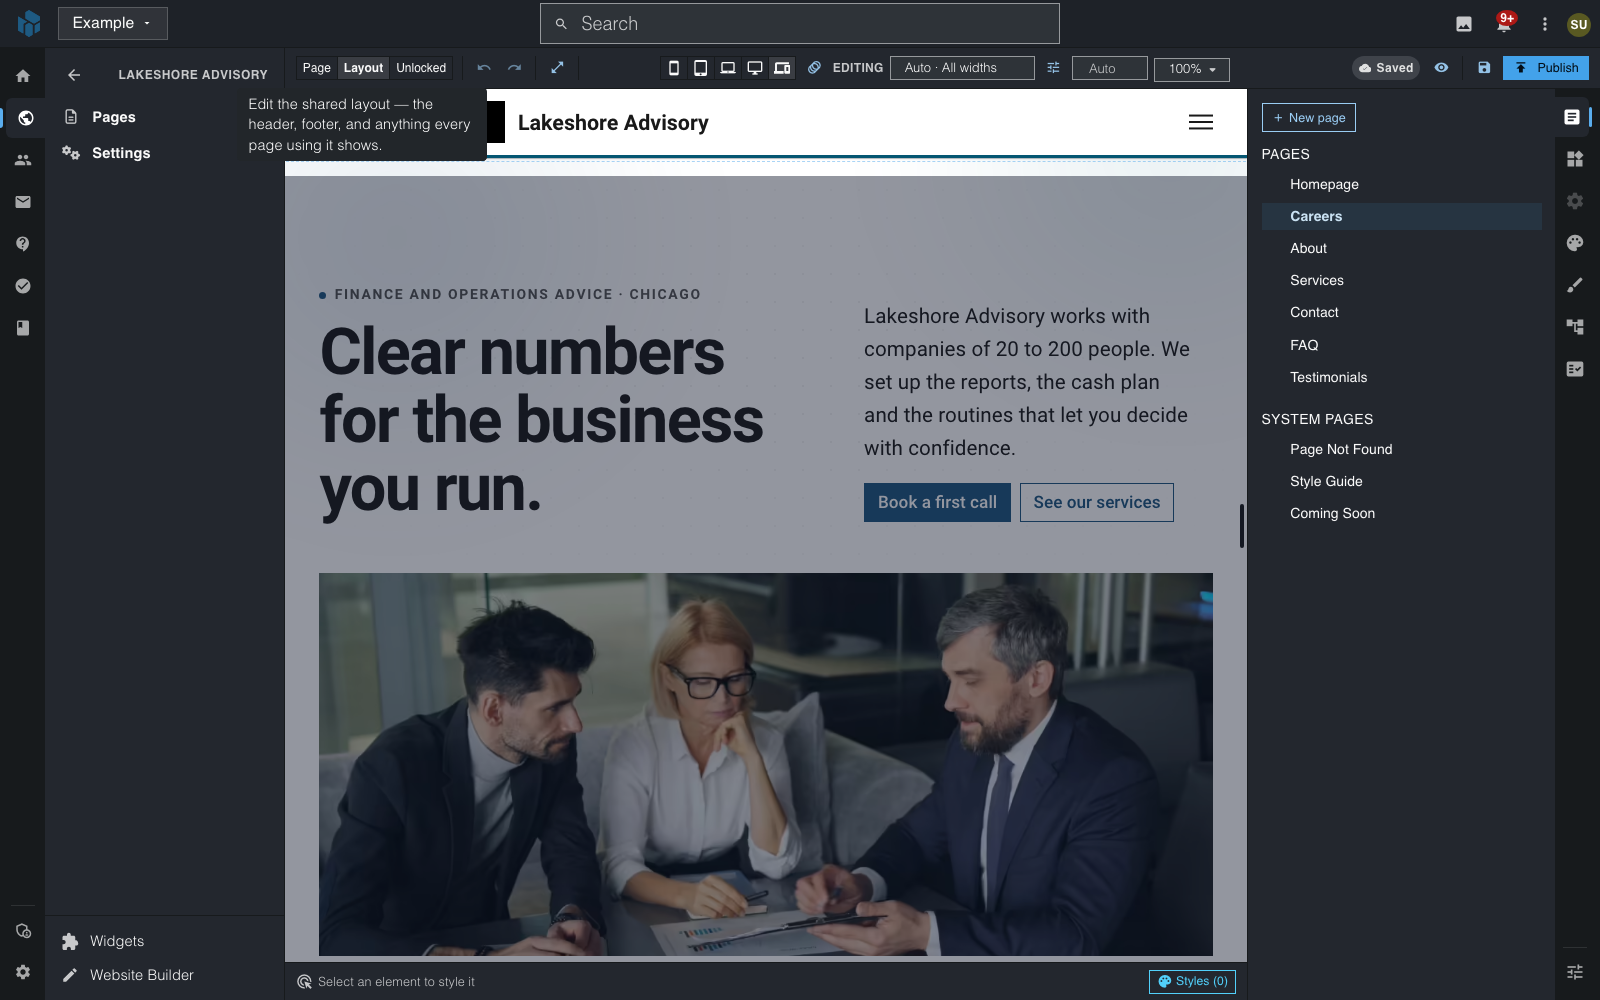
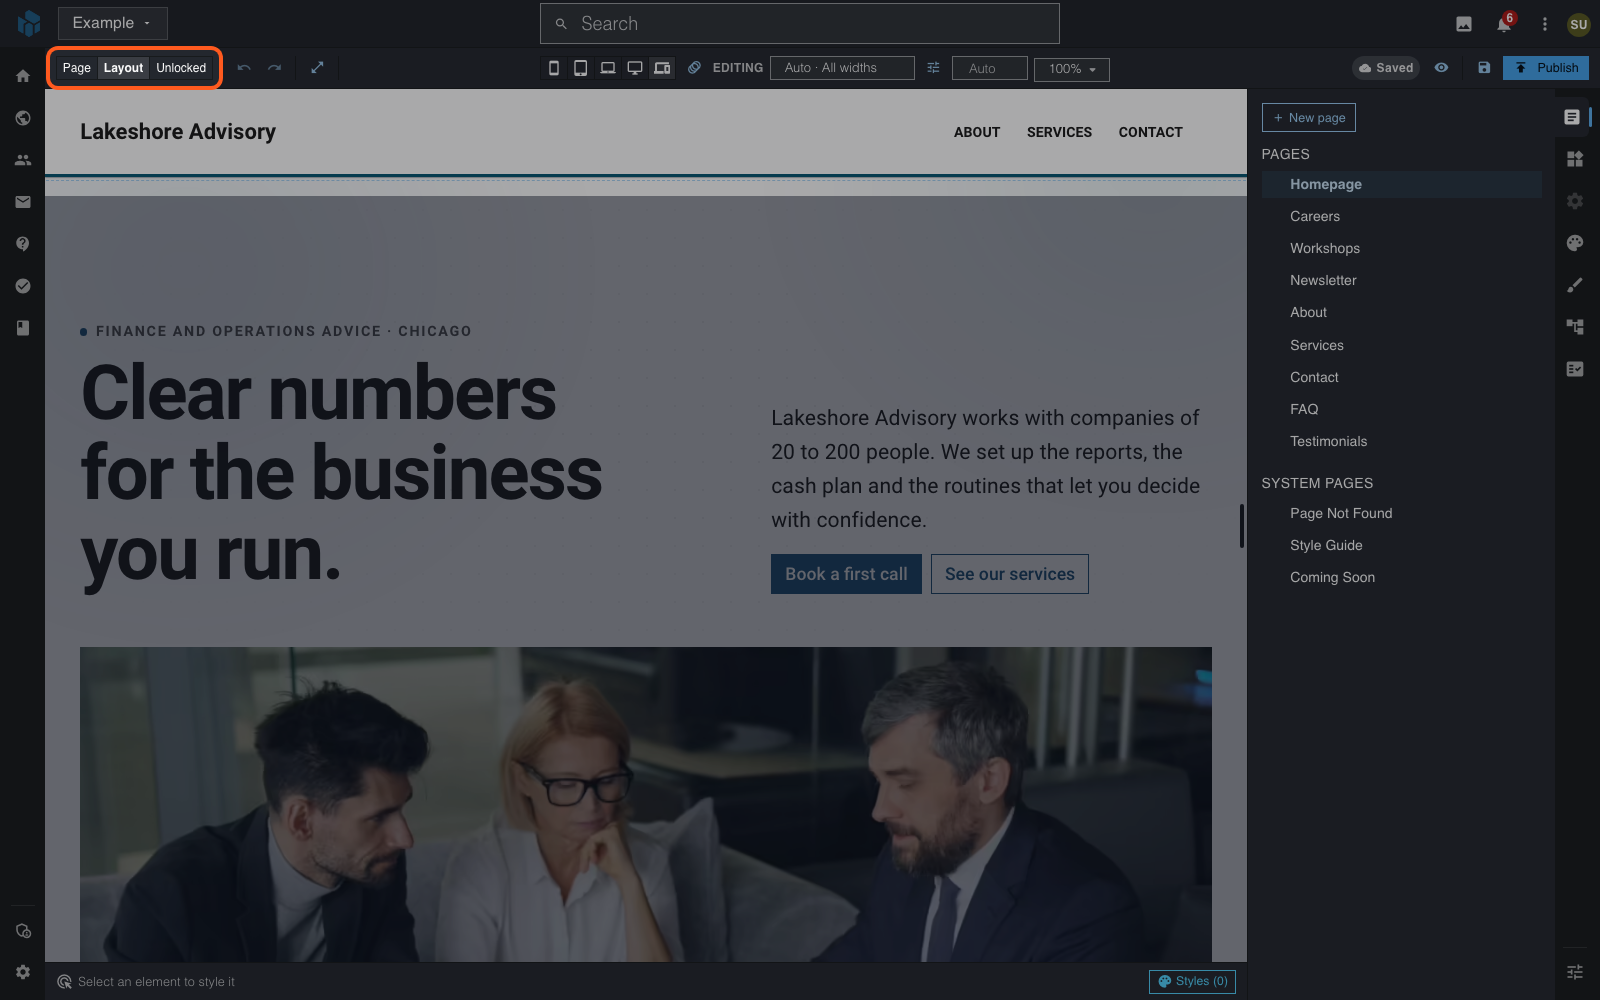
docs(website-builder): add header, Add panel, section, grid and Layers images to layouts-and-structure
Add 5 ringed images and retake the Layout mode image. Fix the Grid steps:
Cols and Rows show under Grid; the gear opens more options.

diff --git a/website-builder/layouts-and-structure.md b/website-builder/layouts-and-structure.md
@@ -1,10 +1,10 @@
 # Page Layouts and Structure
 
-**Last verified:** 2026-11-07 10:00am
+**Last verified:** 2026-11-07 10:49am
 
 A great website is built on a solid structure. Before you add text, images, and buttons, you need to set up the framework that holds everything in place. This guide explains how pages are organized in WebNesting and how to build clean, well-structured layouts.
 
-![The builder in Layout edit mode: the shared header is editable and the page content is dimmed, with a tip explaining the mode](../images/website-builder/layout-example.png)
+![The builder in Layout edit mode, with a ring on the Page, Layout and Unlocked mode buttons: the shared header is editable and the page content is dimmed](../images/website-builder/layout-example.png)
 
 ---
 
@@ -24,6 +24,8 @@ Every header and footer layout can show every part. The layout only decides wher
 
 1. In the Website Builder, click the header (or the footer). **Settings** opens.
 2. Turn each part on or off, and fill in its words.
+
+![The header's Settings with rings on the Glass and Content width menus, above the Logo, Menus and Button groups](../images/website-builder/layouts-header-settings.png)
 
 The header's parts:
 
@@ -194,6 +196,8 @@ Common uses for sections:
 3. Drag it onto your page where you want it.
 4. The section will appear as an empty area, ready for you to add content inside it.
 
+![The Add panel with the Layout group open and the Section block ringed, beside Blank box, Divider, Spacer and Content area](../images/website-builder/layouts-add-panel.png)
+
 #### Giving a Section a Dark Background
 
 1. Click the section, then open its settings.
@@ -257,16 +261,11 @@ To use them:
 
 A Section also has a **Band spacing** panel. **Space above and below** sets the space between the section's edges and its content: **Small**, **Medium**, **Large** or **X-large**. Each size looks the same in every theme. It is smaller on a phone. **Theme default** keeps your theme's space.
 
+![A section's Settings with the Space between rows menu ringed, above Space between rows on a phone, Line above, Band spacing and Page link](../images/website-builder/layouts-section-settings.png)
+
 #### Text Width
 
-Long lines are hard to read, so text in a wide column stops at **Wide** by default. You can make a text block narrower, such as a caption under a stat number, or let it fill its column.
-
-1. Select the text block.
-2. Click **Settings**.
-3. Open **Text width**.
-4. Pick **Full**, **Wide**, **Medium** or **Narrow**.
-
-**Wide** holds about 70 letters a line, **Medium** about 56 and **Narrow** about 42. **Full** makes the text fill its column. If the column is narrower than the size you pick, the text keeps the column's width. A heading in the text also keeps the column's width; only the lines under it stop at the size. Your theme can change each size: see [Themes and customization](../dashboard/themes-and-customization.md).
+Text fills the column it is in. For shorter lines, such as long reading text on a wide page, put the text in a narrower column: see [Creating Multi-Column Layouts](#creating-multi-column-layouts).
 
 ---
 
@@ -298,7 +297,9 @@ For evenly spaced columns, use the Grid layout.
 3. Select the box.
 4. In the **Styles** panel, find the **Layout** section.
 5. Click the **Grid** button.
-6. Click the gear icon to set the number of columns and rows.
+6. Under **Grid**, set **Cols** (columns) and **Rows**. The gear icon beside **Grid** opens more grid options.
+
+![The Layout section for a group of items, with a ring on the Grid display button and the Grid options below it: Cols, Rows and Gap](../images/website-builder/layouts-flex-grid-options.png)
 
 ### Common Layout Examples
 
@@ -322,7 +323,7 @@ Great for showcasing services, features, or team members.
 2. Add a Blank box inside the section.
 3. Add three child blank boxes or Card blocks inside.
 4. Select the parent box and set its display to **Grid**.
-5. Click the gear icon and set the columns to 3.
+5. Under **Grid**, set **Cols** to 3.
 6. Each item will take up one-third of the width.
 
 #### Staggered Columns
@@ -470,3 +471,5 @@ A dramatic full-width image with text overlay.
 5. **Start simple.** Begin with one section at a time. Get each section looking good before adding the next one.
 
 6. **Use the component hierarchy.** The **Layers** panel in the panel rail shows a tree view of all your components. Use it to check your structure and make sure everything is nested correctly.
+
+![The Layers panel, opened from the ringed button in the panel rail, showing the Content area with its Sections, Elements and Inline Text nested inside](../images/website-builder/layouts-layers-panel.png)
